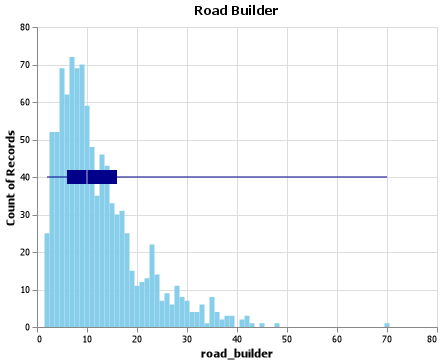
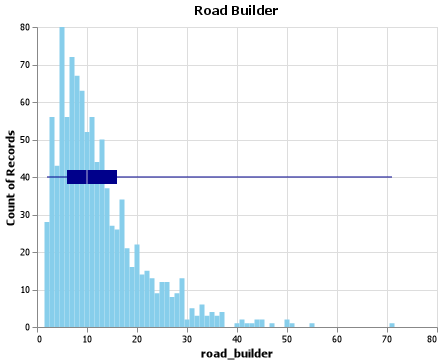
Tradie

diff --git a/Catan.py b/Catan.py
@@ -1,26 +1,19 @@
 # %%
 # Load in packages
 from random import randint
-from matplotlib.pyplot import title
 import pandas as pd
 import altair as alt
+from sqlalchemy import true
 
 # %%
 # Funtion to add 2 dice role together
 # values should be between 2 - 12
+
+
 def dice_role():
     d1 = randint(1, 6)
     d2 = randint(1, 6)
     return d1 + d2
-
-
-# %%
-# The number of each resorce cards eah pelple have
-card = {"sheep": 0,
-        'brick': 0,
-        'ore': 0,
-        'grain': 0,
-        'lumber': 0}
 
 # %%
 # Function that gets resorces when you
@@ -40,29 +33,93 @@ def get_resorces(role, r, card):
         card['lumber'] += r['lumber'].count(role)
     return card
 
+# %%
+# I am going to be making a function that is going to help with 4:1
+# trades and hopefully eventually be able to trade 3:1 and maybe
+# include 2:1 trades.
+
+
+def building_resource(card, n_brick=False, n_lumber=False, n_ore=False,
+                      n_grain=False, n_sheep=False, b_city=False):
+    s = 0
+    # Brick
+    if n_brick == True:
+        if card['brick'] > 0:
+            s += int((4+card['brick'])/4)
+    else:
+        s += int(card['brick']/4)
+
+    # Lumber
+    if n_lumber == True:
+        if card['lumber'] > 0:
+            s += int((4+card['lumber'])/4)
+    else:
+        s += int(card['lumber']/4)
+
+    # Grain
+    if n_grain == True:
+        if b_city == True:
+            if card['grain'] <= 2:
+                s += card['grain']
+            else:
+                s += int((8+card['ore'])/4)
+        else:
+            if card['ore'] > 0:
+                s += int((4+card['ore'])/4)
+
+    # ore
+    if n_ore == True:
+        if b_city == True:
+            if card['ore'] <= 3:
+                s += card['ore']
+            else:
+                s += int((12+card['ore'])/4)
+        else:
+            if card['ore'] > 0:
+                s += int((4+card['ore'])/4)
+    else:
+        s += int(card['ore']/4)
+
+    # Sheep
+    if n_sheep == True:
+        if card['sheep'] > 0:
+            s += int((4+card['sheep'])/4)
+    else:
+        s += int(card['sheep']/4)
+
+    return s
+
 
 # %%
 # Check to see if you have the resorces to build
 def road_builder(card):
-    if card['brick'] >= 1 and card['lumber'] >= 1:
+    s = building_resource(card, n_brick=True, n_lumber=True)
+    if s >= 2:
         return True
     else:
         return False
+
 
 def settlement_builder(card):
-    if card['brick'] >= 1 and card['lumber'] >= 1 and card['sheep'] >= 1 and card['grain'] >= 1:
+    s = building_resource(card, n_brick=True, n_lumber=True,
+                          n_sheep=True, n_grain=True)
+    if s >= 4:
         return True
     else:
         return False
+
 
 def city_builder(card):
-    if card['grain'] >= 2 and card['ore'] >= 3:
+    s = building_resource(card, n_ore=True, n_grain=True, b_city=True)
+    if s >= 5:
         return True
     else:
         return False
 
+
 def devo_card(card):
-    if card['sheep'] >= 1 and card['grain'] >= 1 and card['ore'] >= 1:
+    s = building_resource(card, n_ore=True, n_grain=True, n_sheep=True)
+    if s >= 3:
         return True
     else:
         return False
@@ -78,7 +135,7 @@ def builder(card, r):
     city = False
     devo = False
     count = 0
-    rober = 0
+    robber = 0
     ro, s, c, d = 0, 0, 0, 0
     my_list = []
     card = {"sheep": 0,
@@ -91,12 +148,12 @@ def builder(card, r):
     # to build 1 or everything
     while True:
         if road == True and settlement == True and city == True and devo == True:
-            my_list = [ro, s, c, d, rober]
+            my_list = [ro, s, c, d, robber]
             return my_list
         role = dice_role()
         count += 1
         card = get_resorces(role, r, card)
-        # print(card)
+        print(card)
         # Check Settlements
         if settlement == False:
             settlement = settlement_builder(card)
@@ -118,16 +175,16 @@ def builder(card, r):
             if road == True:
                 ro = count
         if role == 7:
-            rober += 1
+            robber += 1
 
 
 # %%
 # This is the recorse list.
-r = {"sheep": [4, 4, 10],
-     'brick': [5],
-     'ore': [2, 8],
-     'grain': [8],
-     'lumber': [6]}
+r = {"sheep": [8],
+     'brick': [],
+     'ore': [],
+     'grain': [],
+     'lumber': []}
 
 card = {"sheep": 0,
         'brick': 0,
@@ -135,24 +192,24 @@ card = {"sheep": 0,
         'grain': 0,
         'lumber': 0}
 
-df = pd.DataFrame({'road_builder': [], 'settlement_builder': [
-], 'city_builder': [], 'devo_card': [], 'rober': []})
+# df = pd.DataFrame({'road_builder': [], 'settlement_builder': [
+# ], 'city_builder': [], 'devo_card': [], 'robber': []})
 
-my_list = builder(card, r)
-df = df.append({"settlement_builder": my_list[1], "road_builder": my_list[0],
-                'city_builder': my_list[2], 'devo_card': my_list[3],
-                'rober': my_list[4]}, ignore_index=True)
-my_list
+# my_list = builder(card, r)
+# df = df.append({"settlement_builder": my_list[1], "road_builder": my_list[0],
+#                 'city_builder': my_list[2], 'devo_card': my_list[3],
+#                 'robber': my_list[4]}, ignore_index=True)
+# my_list
 # %%
 # Run the simulation x number of times
 df = pd.DataFrame({'road_builder': [], 'settlement_builder': [
-], 'city_builder': [], 'devo_card': [], 'rober': []})
+], 'city_builder': [], 'devo_card': [], 'robber': []})
 
 for i in range(1000):
     my_list = builder(card, r)
     df = df.append({"settlement_builder": my_list[1], "road_builder": my_list[0],
                     'city_builder': my_list[2], 'devo_card': my_list[3],
-                    'rober': my_list[4]}, ignore_index=True)
+                    'robber': my_list[4]}, ignore_index=True)
 
 df
 
@@ -192,7 +249,9 @@ a = alt.Chart(df).mark_boxplot(extent='min-max', color="darkblue").encode(
     x='road_builder'
 )
 
-c+a
+settlement_chart = c+a
+
+settlement_chart
 # %%
 # Settlement
 c = alt.Chart(df).mark_bar(color='skyblue').encode(
@@ -208,12 +267,12 @@ c+a
 
 # %%
 c = alt.Chart(df).mark_bar(color='skyblue').encode(
-    alt.X("rober"),
+    alt.X("robber"),
     y='count()',
-).properties(title="settlement Builder")
+).properties(title="Robber")
 
 a = alt.Chart(df).mark_boxplot(extent='min-max', color="darkblue").encode(
-    x='rober'
+    x='robber'
 )
 
 c+a

diff --git a/asciicanvas.py b/asciicanvas.py
@@ -1,0 +1,73 @@
+class _ASCIICanvasRow(bytearray):
+    """Row for the ASCIICanvas.
+    This class's __setitem__ does not set any whitespace values.
+    """
+
+    def _set_byte(self, i, c):
+        """Set the byte at index i to c only if c is not whitespace."""
+        if isinstance(c, int):
+            if bytes((c,)).isspace():
+                return
+        elif c.isspace():
+            return
+        bytearray.__setitem__(self, i, c)
+
+    def __setitem__(self, index, val):
+        if isinstance(index, slice):
+            for i, c in zip(range(*index.indices(len(self))), val):
+                self._set_byte(i, c)
+        else:
+            self._set_byte(index, val)
+
+
+class ASCIICanvas:
+
+    def __init__(self, rows, cols):
+        """Return a rows*cols ASCIICanvas."""
+        self.rows = rows
+        self.cols = cols
+        self.grid = [_ASCIICanvasRow(b' '*cols)
+                     for i in range(rows)]
+
+    def __getitem__(self, indices):
+        """Get items from the canvas.
+        Subscripting takes two comma-separated args, either or both
+        of which may be a slice or int.
+        Syntax:
+                AC[0, 1]
+                AC[0:1, 2]
+                AC[0, 1:2]
+                AC[0:1, 2:3]
+                etc.
+        """
+        try:
+            r, c = indices
+            if isinstance(r, slice):
+                return [self.grid[i][c] for i in range(*r.indices(self.rows))]
+            else:
+                return self.grid[r][c]
+        except (ValueError, TypeError):
+            raise TypeError(
+                'ASCIICanvas indices must be 2-tuple of int and/or slice, not %s' % type(indices))
+
+    def __setitem__(self, indices, val):
+        """Set values in the canvas. Whitespace characters are ignored.
+        Uses the same subscripting syntax as ASCIICanvas.__getitem__
+        """
+        pass
+        try:
+            r, c = indices
+            if isinstance(r, slice):
+                for row, val_row in zip(self.grid[r], val):
+                    row[c] = val_row
+            else:
+                self.grid[r][c] = val
+        except (ValueError, TypeError):
+            raise TypeError(
+                'ASCIICanvas indices must be 2-tuple of int and/or slice, not %s' % type(indices))
+
+    def __repr__(self):
+        return 'ASCIIGrid(%d, %d)' % (self.rows, self.cols)
+
+    def __str__(self):
+        return '\n'.join(row.decode('ascii') for row in self.grid)
